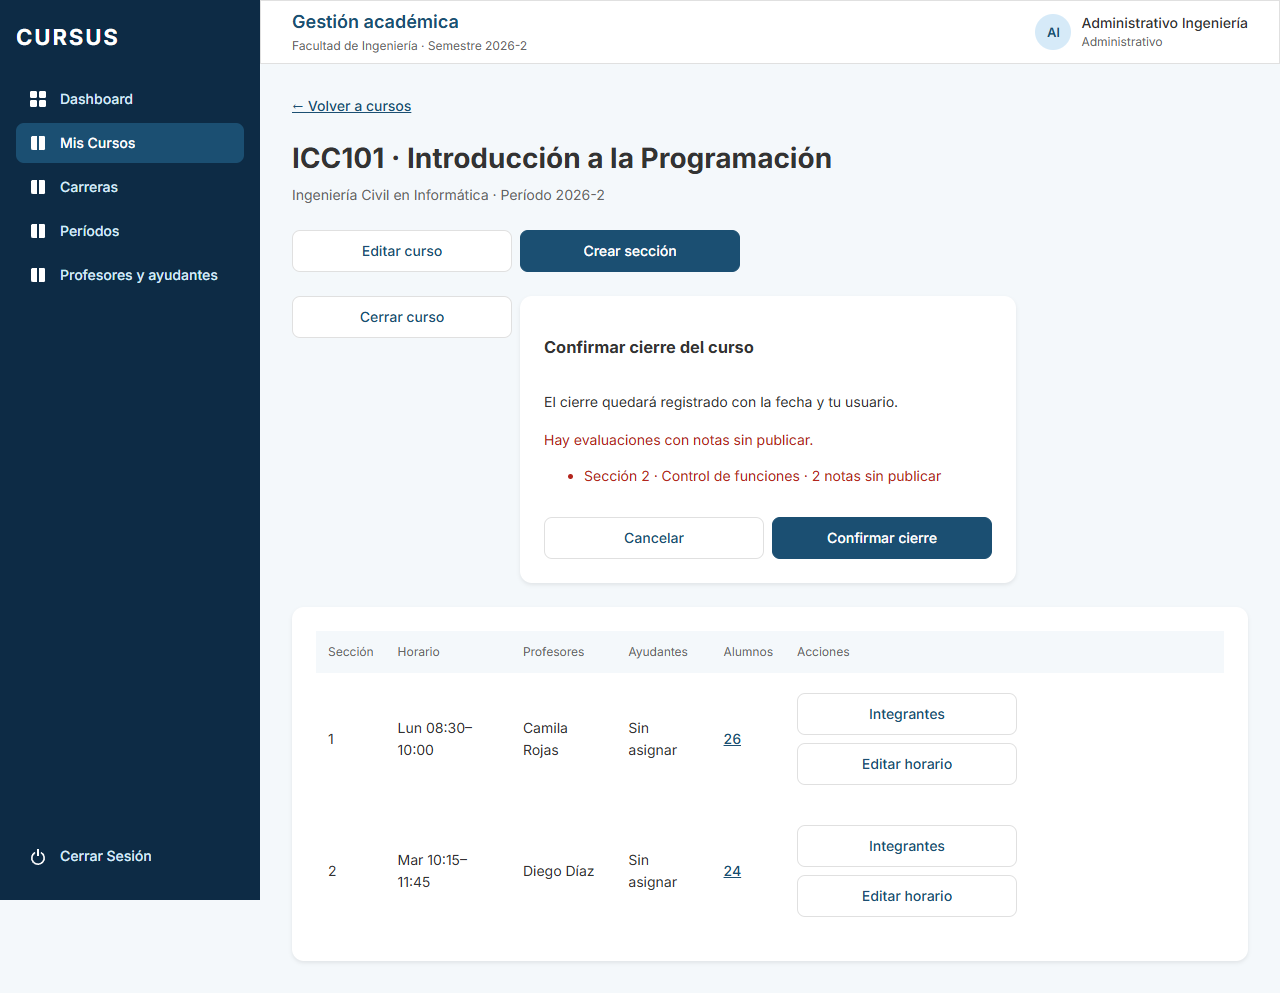
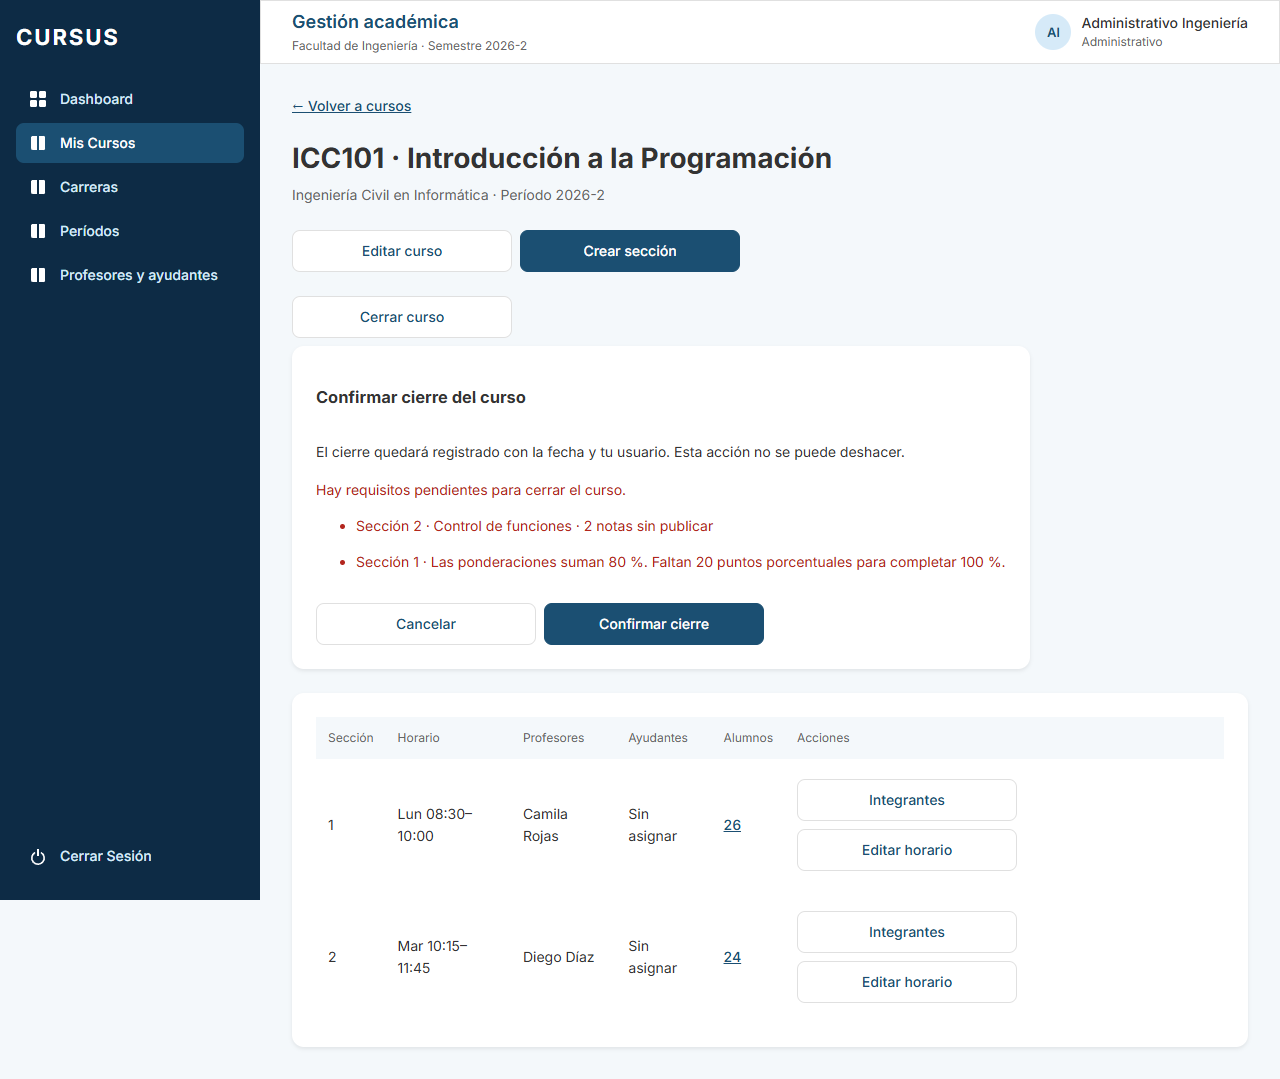
fix(gestion): exige ponderaciones completas al cerrar cursos

diff --git a/backend/test/gestion/detalle-curso.db-spec.ts b/backend/test/gestion/detalle-curso.db-spec.ts
@@ -207,7 +207,7 @@ describe('POST /api/cursos/:id/cierre (HIS-01)', () => {
     await cerrar(DIRECTOR, curso, 403)
   })
 
-  it('reporta notas faltantes y propuestas en todas las secciones y registra un solo cierre', async () => {
+  it('exige notas publicadas y 100 % por sección antes de registrar un solo cierre', async () => {
     const [{ id: curso }] = await bd.query<{ id: string }[]>(
       `INSERT INTO curso (universidad_id, carrera_id, periodo_id, codigo, nombre)
        SELECT universidad_id, carrera_id, periodo_id, 'HIS01', 'Curso de cierre'
@@ -215,17 +215,24 @@ describe('POST /api/cursos/:id/cierre (HIS-01)', () => {
     )
     await bd.query(
       `INSERT INTO seccion (universidad_id, curso_id, numero)
-       SELECT universidad_id, id, numero FROM curso CROSS JOIN (VALUES (1), (2)) AS n(numero)
+       SELECT universidad_id, id, numero FROM curso CROSS JOIN (VALUES (1), (2), (3)) AS n(numero)
         WHERE id = $1`,
       [curso],
     )
     const evaluaciones = await bd.query<{ id: string; nombre: string }[]>(
       `INSERT INTO evaluacion (universidad_id, seccion_id, nombre, fecha, ponderacion, creada_por)
-       SELECT s.universidad_id, s.id, 'Control ' || s.numero, current_date, 100, u.id
+       SELECT s.universidad_id, s.id, 'Control ' || s.numero, current_date,
+              CASE WHEN s.numero = 1 THEN 80 ELSE 100 END, u.id
          FROM seccion s JOIN usuario u ON u.universidad_id = s.universidad_id
         WHERE s.curso_id = $1 AND s.numero IN (1, 2) AND u.correo = $2
         RETURNING id, nombre`,
       [curso, PROFESOR],
+    )
+    await bd.query(
+      `INSERT INTO evaluacion (universidad_id, seccion_id, nombre, fecha, ponderacion, creada_por, archived_at)
+       SELECT universidad_id, seccion_id, 'Control archivado', fecha, 20, creada_por, now()
+         FROM evaluacion WHERE id = $1`,
+      [evaluaciones.find((e) => e.nombre === 'Control 1')?.id],
     )
     await bd.query(
       `INSERT INTO inscripcion (universidad_id, seccion_id, usuario_id)
@@ -250,8 +257,13 @@ describe('POST /api/cursos/:id/cierre (HIS-01)', () => {
     )
 
     const intento = await cerrar(ADMIN_INGENIERIA, curso, 409)
+    const ponderaciones = [
+      { seccion: 1, sumaPonderaciones: 80, faltan: 20, sobran: 0 },
+      { seccion: 3, sumaPonderaciones: 0, faltan: 100, sobran: 0 },
+    ]
     expect(intento.body).toEqual({
-      message: 'Hay evaluaciones con notas sin publicar.',
+      message: 'Hay requisitos pendientes para cerrar el curso.',
+      ponderaciones,
       pendientes: [1, 2].map((seccion) => ({
         evaluacionId: evaluaciones.find(
           (e) => e.nombre === `Control ${seccion}`,
@@ -275,6 +287,28 @@ describe('POST /api/cursos/:id/cierre (HIS-01)', () => {
       [evaluaciones.map((e) => e.id), AYUDANTE],
     )
 
+    expect((await cerrar(ADMIN_INGENIERIA, curso, 409)).body).toMatchObject({
+      pendientes: [],
+      ponderaciones,
+    })
+    expect((await detalle(ADMIN_INGENIERIA, curso)).cierre).toBeUndefined()
+    await bd.query(
+      `WITH complemento AS (
+         INSERT INTO evaluacion (universidad_id, seccion_id, nombre, fecha, ponderacion, creada_por)
+         SELECT universidad_id, seccion_id, 'Control complementario', fecha, 20, creada_por
+           FROM evaluacion WHERE id = $1
+         RETURNING id, universidad_id
+       )
+       INSERT INTO nota (universidad_id, evaluacion_id, alumno_id, valor, propuesta_por, estado)
+       SELECT c.universidad_id, c.id, n.alumno_id, n.valor, n.propuesta_por, 'PUBLICADA'
+         FROM complemento c CROSS JOIN nota n WHERE n.evaluacion_id = $1`,
+      [evaluaciones.find((e) => e.nombre === 'Control 1')?.id],
+    )
+    await bd.query(
+      `UPDATE seccion SET archived_at = now() WHERE curso_id = $1 AND numero = 3`,
+      [curso],
+    )
+
     const [actor] = await bd.query<{ id: string }[]>(
       'SELECT id FROM usuario WHERE correo = $1',
       [ADMIN_INGENIERIA],
@@ -285,5 +319,22 @@ describe('POST /api/cursos/:id/cierre (HIS-01)', () => {
     expect(Number.isFinite(Date.parse(cierre.fecha))).toBe(true)
     expect((await detalle(ADMIN_INGENIERIA, curso)).cierre).toEqual(cierre)
     expect((await cerrar(ADMIN_INGENIERIA, curso, 200)).body).toEqual(cierre)
+
+    const universidades = await bd.query<{ universidad_id: string }[]>(
+      'SELECT universidad_id FROM usuario WHERE correo IN ($1, $2) ORDER BY correo',
+      [ADMIN_SUR, PROFESOR],
+    )
+    await bd.transaction(async (tx) => {
+      await tx.query('SET LOCAL ROLE cursus_app')
+      await tx.query("SELECT set_config('app.rol', 'PROFESOR', true)")
+      for (const [i, { universidad_id }] of universidades.entries()) {
+        await tx.query("SELECT set_config('app.universidad_id', $1, true)", [
+          universidad_id,
+        ])
+        expect(
+          await tx.query('SELECT curso_cerrado($1) AS cerrado', [curso]),
+        ).toEqual([{ cerrado: i === 1 }])
+      }
+    })
   })
 })

diff --git a/backend/src/database/migrations/1792900000000-CrearCierreCurso.ts b/backend/src/database/migrations/1792900000000-CrearCierreCurso.ts
@@ -1,4 +1,5 @@
 import type { MigrationInterface, QueryRunner } from 'typeorm'
+import { SUMA_PONDERACIONES_REQUERIDA } from '@cursus/shared'
 
 // HIS-01: un registro de cierre por curso. La función comprueba las notas
 // sin conceder al administrativo permisos para leer las calificaciones.
@@ -31,6 +32,18 @@ export class CrearCierreCurso1792900000000 implements MigrationInterface {
         EXECUTE FUNCTION auditar_superadmin();
     `)
     await q.query(`
+      -- HIS-02: los roles de la universidad pueden consultar solo el estado.
+      CREATE FUNCTION public.curso_cerrado(curso uuid) RETURNS boolean
+      LANGUAGE sql STABLE SECURITY DEFINER SET search_path = pg_catalog AS $$
+        SELECT EXISTS (
+          SELECT 1 FROM public.cierre_curso cc
+           WHERE cc.id = curso AND cc.universidad_id = public.universidad_actual()
+        )
+      $$;
+
+      REVOKE ALL ON FUNCTION public.curso_cerrado(uuid) FROM PUBLIC;
+      GRANT EXECUTE ON FUNCTION public.curso_cerrado(uuid) TO cursus_app;
+
       CREATE FUNCTION public.cerrar_curso(curso uuid) RETURNS jsonb
       LANGUAGE plpgsql SECURITY DEFINER SET search_path = pg_catalog, public, pg_temp AS $$
       DECLARE
@@ -39,6 +52,8 @@ export class CrearCierreCurso1792900000000 implements MigrationInterface {
         cerrado timestamptz;
         cierre jsonb;
         pendientes jsonb;
+        ponderaciones jsonb;
+        requerida constant integer := ${SUMA_PONDERACIONES_REQUERIDA};
       BEGIN
         IF public.rol_actual() IS DISTINCT FROM 'ADMINISTRATIVO' OR responsable IS NULL THEN
           RETURN NULL;
@@ -93,8 +108,24 @@ export class CrearCierreCurso1792900000000 implements MigrationInterface {
                 AND n.archived_at IS NULL AND n.estado = 'PUBLICADA'
            ));
 
-        IF jsonb_array_length(pendientes) > 0 THEN
-          RETURN jsonb_build_object('pendientes', pendientes);
+        -- NOT-02: suma por sección de las evaluaciones vigentes. Una sección
+        -- vigente sin evaluaciones tiene 0 %, igual que en la nota final.
+        SELECT coalesce(jsonb_agg(jsonb_build_object(
+                 'seccion', s.numero, 'sumaPonderaciones', s.suma,
+                 'faltan', greatest(0, requerida - s.suma),
+                 'sobran', greatest(0, s.suma - requerida)
+               ) ORDER BY s.numero), '[]'::jsonb) INTO ponderaciones
+          FROM (
+            SELECT s.numero, coalesce(sum(e.ponderacion), 0)::int AS suma
+              FROM public.seccion s
+              LEFT JOIN public.evaluacion e ON e.seccion_id = s.id
+                AND e.universidad_id = s.universidad_id AND e.archived_at IS NULL
+             WHERE s.curso_id = curso AND s.universidad_id = universidad AND s.archived_at IS NULL
+             GROUP BY s.id, s.numero
+          ) s WHERE s.suma <> requerida;
+
+        IF jsonb_array_length(pendientes) > 0 OR jsonb_array_length(ponderaciones) > 0 THEN
+          RETURN jsonb_build_object('pendientes', pendientes, 'ponderaciones', ponderaciones);
         END IF;
 
         INSERT INTO public.cierre_curso (id, universidad_id, responsable_id)
@@ -110,6 +141,7 @@ export class CrearCierreCurso1792900000000 implements MigrationInterface {
 
   async down(q: QueryRunner): Promise<void> {
     await q.query('DROP FUNCTION public.cerrar_curso(uuid)')
+    await q.query('DROP FUNCTION public.curso_cerrado(uuid)')
     await q.query('DROP TABLE cierre_curso')
   }
 }

diff --git a/frontend/src/pages/GestionarCierreCurso.tsx b/frontend/src/pages/GestionarCierreCurso.tsx
@@ -1,8 +1,9 @@
 import type {
   CierreCurso,
   CursoDetalle,
-  EvaluacionPendienteDeCierre,
+  PendientesCierreCurso,
 } from '@cursus/shared'
+import { avisoPonderaciones } from '@cursus/shared'
 import { useEffect, useRef, useState } from 'react'
 import { useAuth } from '../auth/auth'
 
@@ -11,10 +12,9 @@ export function GestionarCierreCurso({ curso }: { curso: CursoDetalle }) {
   const [cierre, setCierre] = useState<CierreCurso>()
   const [confirmando, setConfirmando] = useState(false)
   const [guardando, setGuardando] = useState(false)
-  const [error, setError] = useState<{
-    message: string
-    pendientes?: EvaluacionPendienteDeCierre[]
-  }>()
+  const [error, setError] = useState<
+    { message: string } & Partial<PendientesCierreCurso>
+  >()
   const titulo = useRef<HTMLHeadingElement>(null)
   const boton = useRef<HTMLButtonElement>(null)
 
@@ -75,11 +75,14 @@ export function GestionarCierreCurso({ curso }: { curso: CursoDetalle }) {
           <h3 id="confirmar-cierre" ref={titulo} tabIndex={-1}>
             Confirmar cierre del curso
           </h3>
-          <p>El cierre quedará registrado con la fecha y tu usuario.</p>
+          <p>
+            El cierre quedará registrado con la fecha y tu usuario. Esta acción
+            no se puede deshacer.
+          </p>
           {error && (
             <div className="cursos__error" role="alert">
               <p>{error.message}</p>
-              {error.pendientes && (
+              {!!error.pendientes?.length && (
                 <ul>
                   {error.pendientes.map(
                     ({ evaluacionId, nombre, seccion, notasPendientes }) => (
@@ -93,6 +96,16 @@ export function GestionarCierreCurso({ curso }: { curso: CursoDetalle }) {
                       </li>
                     ),
                   )}
+                </ul>
+              )}
+              {!!error.ponderaciones?.length && (
+                <ul>
+                  {error.ponderaciones.map(({ seccion, sumaPonderaciones }) => (
+                    <li key={seccion}>
+                      Sección {seccion} ·{' '}
+                      {avisoPonderaciones(sumaPonderaciones)}
+                    </li>
+                  ))}
                 </ul>
               )}
             </div>

diff --git a/frontend/src/pages/CursoDetalle.test.tsx b/frontend/src/pages/CursoDetalle.test.tsx
@@ -47,7 +47,10 @@ describe('detalle de un curso', () => {
       .mockReturnValueOnce(
         json(
           {
-            message: 'Hay evaluaciones con notas sin publicar.',
+            message: 'Hay requisitos pendientes para cerrar el curso.',
+            ponderaciones: [
+              { seccion: 1, sumaPonderaciones: 120, faltan: 0, sobran: 20 },
+            ],
             pendientes: [
               {
                 evaluacionId: 'prueba',
@@ -68,12 +71,16 @@ describe('detalle de un curso', () => {
 
     const iniciar = await screen.findByRole('button', { name: 'Cerrar curso' })
     fireEvent.click(iniciar)
+    expect(screen.getByText(/no se puede deshacer/)).toBeInTheDocument()
     fireEvent.click(screen.getByRole('button', { name: 'Cancelar' }))
     expect(cerrar).not.toHaveBeenCalled()
     fireEvent.click(iniciar)
     fireEvent.click(screen.getByRole('button', { name: 'Confirmar cierre' }))
     expect(await screen.findByRole('alert')).toHaveTextContent(
       'Sección 2 · Prueba 1 · 2 notas sin publicar',
+    )
+    expect(screen.getByRole('alert')).toHaveTextContent(
+      'Sección 1 · Las ponderaciones suman 120 %. Sobran 20 puntos porcentuales',
     )
     expect(cerrar.mock.calls[0][0]?.method).toBe('POST')
 

diff --git a/backend/src/gestion/gestion.service.ts b/backend/src/gestion/gestion.service.ts
@@ -8,7 +8,7 @@ import type {
   CursoCreado,
   CursoDetalle,
   CursoListado,
-  EvaluacionPendienteDeCierre,
+  PendientesCierreCurso,
   DocenteCreado,
   FiltroCursos,
   MotivoErrorCsv,
@@ -326,14 +326,13 @@ export class GestionService {
     return this.bd.enTransaccionEnUniversidad(contexto, async (bd) => {
       await fijarUsuario(bd, usuarioId)
       const [{ resultado }] = await bd.query<{
-        resultado:
-          CierreCurso | { pendientes: EvaluacionPendienteDeCierre[] } | null
+        resultado: CierreCurso | PendientesCierreCurso | null
       }>('SELECT public.cerrar_curso($1) AS resultado', [cursoId])
       if (!resultado) throw new NotFoundException('El curso no existe')
       if ('pendientes' in resultado) {
         throw new ConflictException({
-          message: 'Hay evaluaciones con notas sin publicar.',
-          pendientes: resultado.pendientes,
+          message: 'Hay requisitos pendientes para cerrar el curso.',
+          ...resultado,
         })
       }
       return resultado

diff --git a/shared/src/cursos.ts b/shared/src/cursos.ts
@@ -86,6 +86,16 @@ export interface EvaluacionPendienteDeCierre {
   notasPendientes: number
 }
 
+export interface PendientesCierreCurso {
+  pendientes: EvaluacionPendienteDeCierre[]
+  ponderaciones: {
+    seccion: number
+    sumaPonderaciones: number
+    faltan: number
+    sobran: number
+  }[]
+}
+
 // Respuesta de GET /api/cursos/:id (GES-08).
 export interface CursoDetalle {
   id: string

diff --git a/docs/his-01-cierre-curso.md b/docs/his-01-cierre-curso.md
@@ -7,16 +7,22 @@ El administrativo puede cerrar un curso de su facultad desde **Cursos → Ver de
 1. Usa un curso de tu facultad con dos secciones vigentes. Inscribe alumnos y crea al menos una evaluación por sección.
 2. Como administrativo, abre el detalle del curso, pulsa **Cerrar curso** y elige **Cancelar**. El curso sigue abierto.
 3. Deja una nota pendiente de publicar y vuelve a abrir y confirmar el cierre. Debe aparecer el nombre de la evaluación, el número de sección y cuántas notas faltan. Incluye una nota en propuesta para verificar que tampoco cuenta como publicada.
-4. Como profesor, publica las notas pendientes. Vuelve al detalle como administrativo, confirma el cierre y recarga la página. Debe seguir apareciendo **Curso cerrado el…**.
-5. Prueba el mismo curso con un administrativo de otra facultad o universidad. El cierre devuelve 404. Con un Director, la acción queda oculta y la API devuelve 403.
+4. Deja las ponderaciones de una sección en 80 %. Confirma el cierre y verifica que el aviso de esa sección indique que faltan 20 puntos porcentuales.
+5. Como profesor, ajusta las ponderaciones de cada sección al 100 % y publica las notas pendientes. Vuelve al detalle como administrativo, confirma el cierre y recarga la página. Debe seguir apareciendo **Curso cerrado el…**.
+6. Prueba el mismo curso con un administrativo de otra facultad o universidad. El cierre devuelve 404. Con un Director, la acción queda oculta y la API devuelve 403.
 
 ## Reglas del cierre
 
 - Cada evaluación vigente de una sección vigente debe tener al menos una nota publicada y una nota publicada por cada alumno con inscripción vigente. Las notas archivadas no cuentan. Si una evaluación no tiene inscritos ni notas publicadas, el mensaje dice **Sin notas publicadas**.
-- Un curso sin evaluaciones vigentes no tiene evaluaciones pendientes de publicación.
+- Cada sección vigente debe sumar 100 % con sus evaluaciones vigentes, según NOT-02. Una sección vigente sin evaluaciones suma 0 %.
+- Si una sección sin alumnos quedó abierta y no se utilizará, solicita su archivo antes de cerrar el curso. El archivo de la sección se gestiona fuera de esta pantalla. Una vez archivada, sus evaluaciones y ponderaciones quedan fuera de la validación.
 - El cierre está pensado para el fin del período. Se puede ejecutar cuando se cumple la condición de publicación, sin un bloqueo adicional por fecha de calendario.
-- `POST /api/cursos/:id/cierre` devuelve 409 y las evaluaciones pendientes, o 200 con fecha y responsable. Si se repite un cierre exitoso, devuelve el registro original. `GET /api/cursos/:id` incluye el cierre registrado.
+- `POST /api/cursos/:id/cierre` devuelve 409 con las evaluaciones que tienen notas pendientes y las secciones con ponderaciones distintas de 100 %. Al cerrar, devuelve 200 con fecha y responsable. Si se repite un cierre exitoso, devuelve el registro original. `GET /api/cursos/:id` incluye el cierre registrado.
 - PostgreSQL guarda una sola fila de cierre por curso. La función valida el rol y la facultad de la sesión antes de consultar el estado de las notas. El administrativo recibe los conteos por evaluación.
+
+## Integración con HIS-02
+
+Integrar HIS-01 antes de HIS-02. `public.curso_cerrado(uuid)` devuelve un booleano y limita la consulta a la universidad de la sesión. Los triggers y políticas de HIS-02 pueden usarla para consultar el cierre. Las escrituras que deban serializarse con el cierre deben tomar primero el bloqueo de la fila del curso y comprobar el estado dentro de la misma transacción.
 
 ## Evidencia de la interfaz
 
